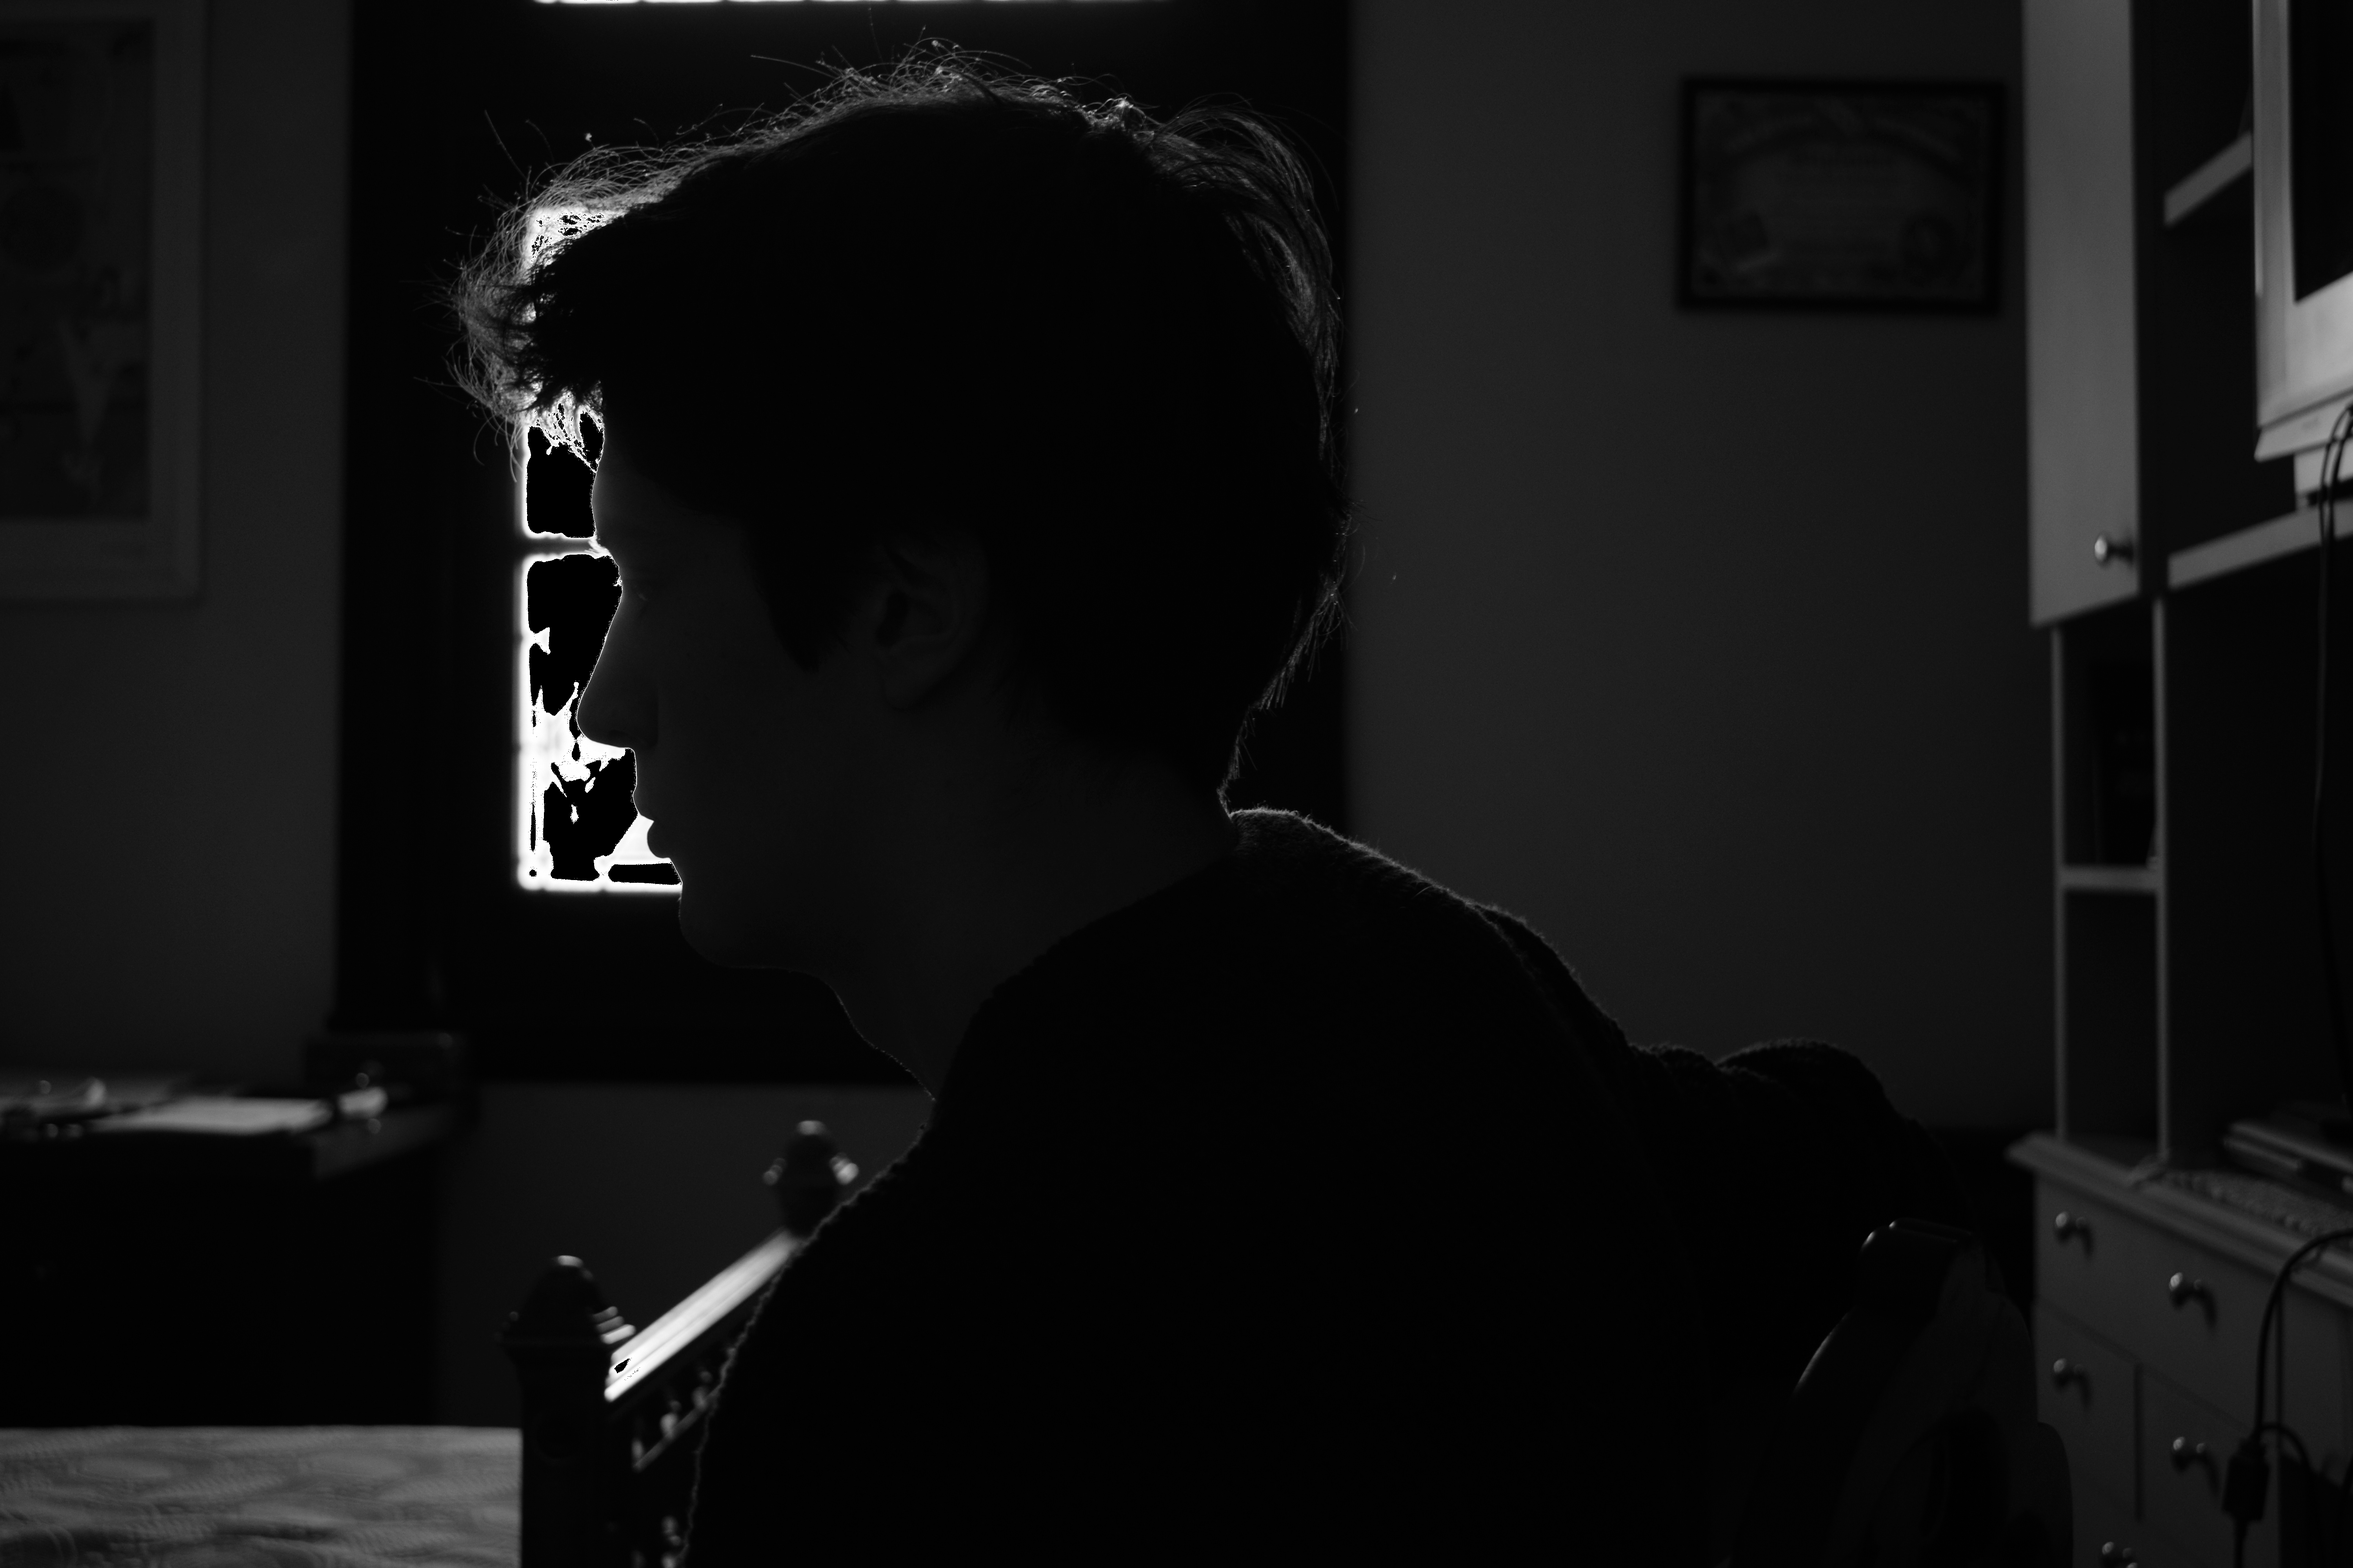
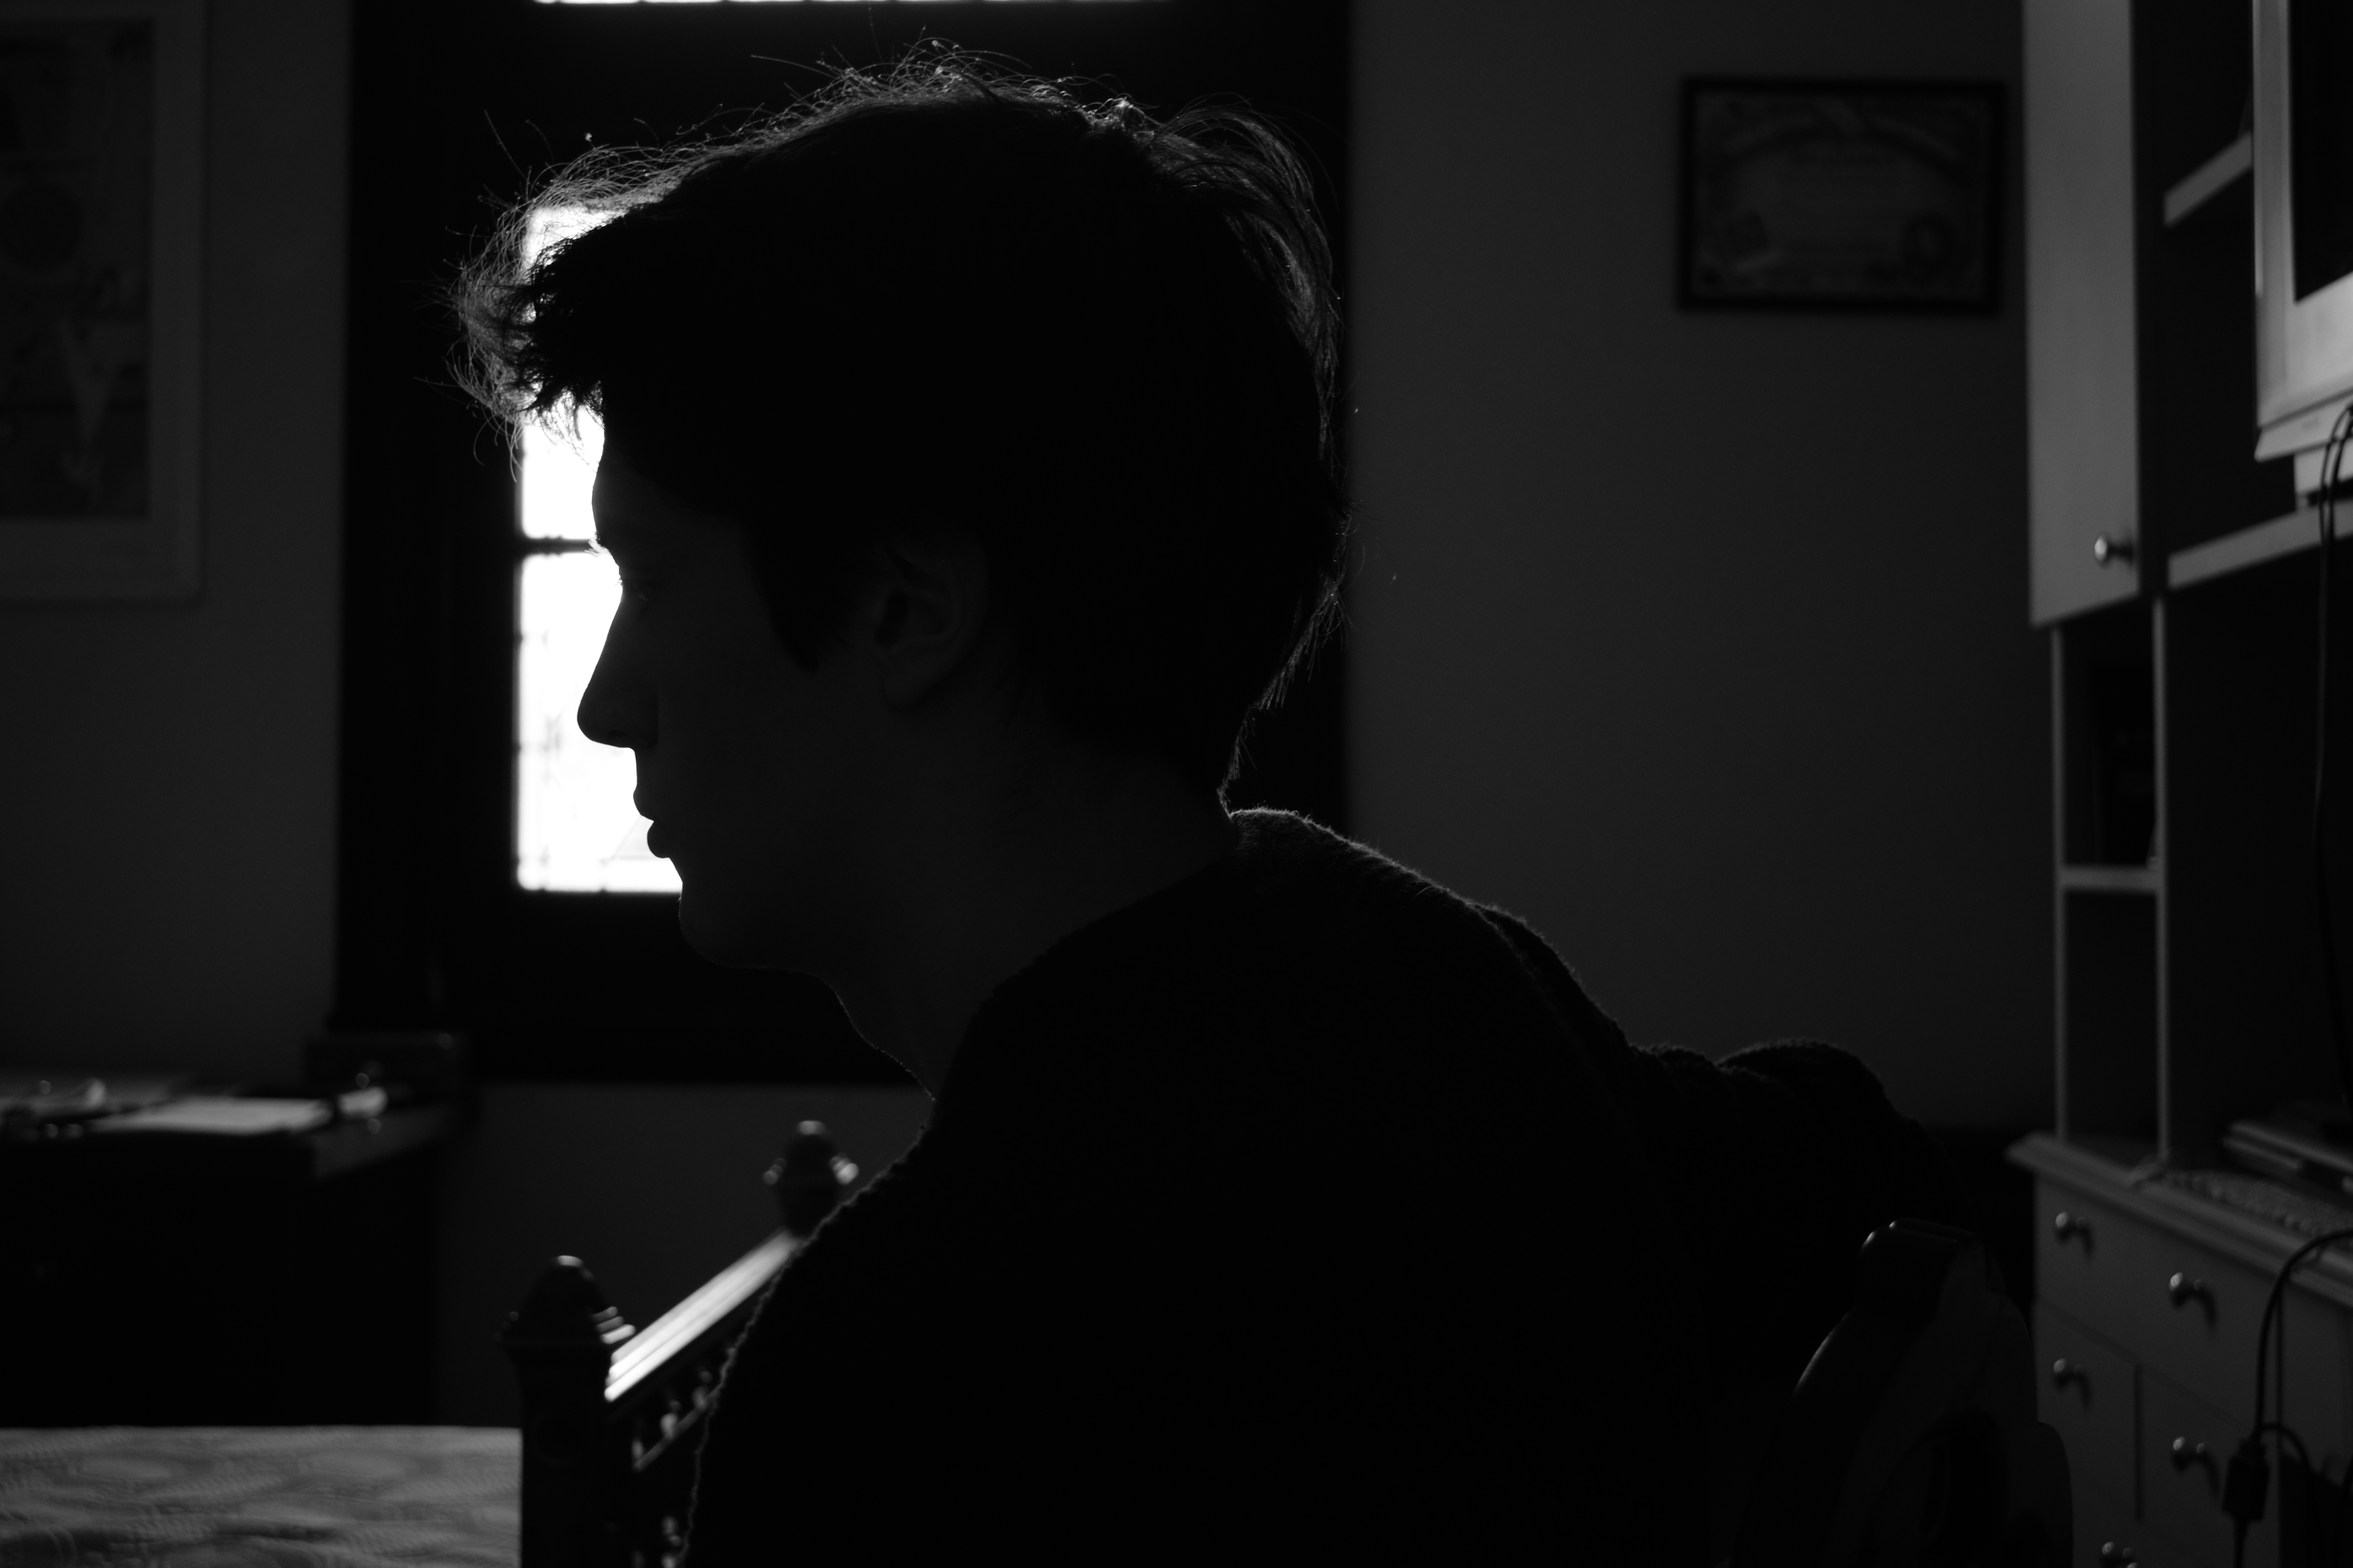
Correccion errores de rendondeo

Changed region(s): [[0.2182, 0.25, 0.2805, 0.5625]]

diff --git a/Labo-1/labo1.py b/Labo-1/labo1.py
@@ -3,10 +3,10 @@ import numpy as np
 import matplotlib.pyplot as plt
 import os
 
-path_output = "./Labo-1/salida/" 
+path_output = "salida/" 
 
 
-imagen =cv2.imread("Labo-1/Imagenes_para_contraste/binariza2.jpg", cv2.IMREAD_GRAYSCALE)
+imagen =cv2.imread("Imagenes_para_contraste/maxi.jpg", cv2.IMREAD_GRAYSCALE)
 
 # dimension de la imagen
 #print(np.shape(imagen))
@@ -45,8 +45,7 @@ def funAcumulada(imagen):
         for pixel in line:
             bucket[pixel] += 1
     
-    frecuencias = bucket/(imagen.shape[0]*imagen.shape[1])
-    funcAcumulada = np.cumsum(frecuencias)
+    funcAcumulada = np.cumsum(bucket)/(imagen.shape[0]*imagen.shape[1])
     return funcAcumulada
 
 
@@ -139,7 +138,7 @@ def transformar_imagen(imagen, funcAcumTarget):
                
         #print(i, indicemin, diffmin)
         transformacion[i] = indicemin
-
+        print(indicemin)
 
     imagen2 = imagen.copy()
     for i in range(imagen2.shape[0]):
@@ -151,9 +150,9 @@ def transformar_imagen(imagen, funcAcumTarget):
     return imagen2
 
 def exploracion9(imagen):
-    lambdas = [0]
+    lambdas = [3]
     gammas = [0]
-    special_path_output = path_output + "Ejercicio9/"
+    special_path_output = path_output + "amigo-maxi/"
 
     for l in lambdas:
         for g in gammas:
